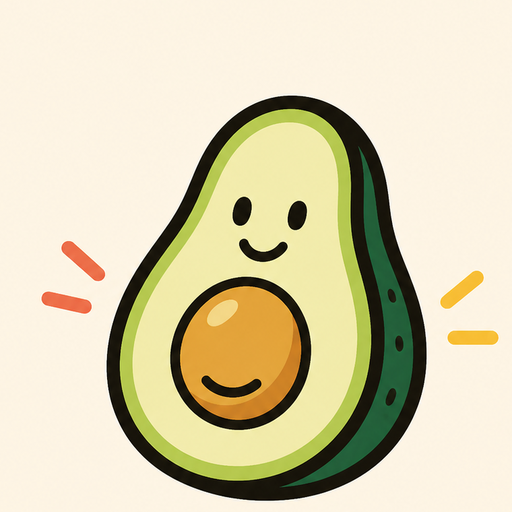
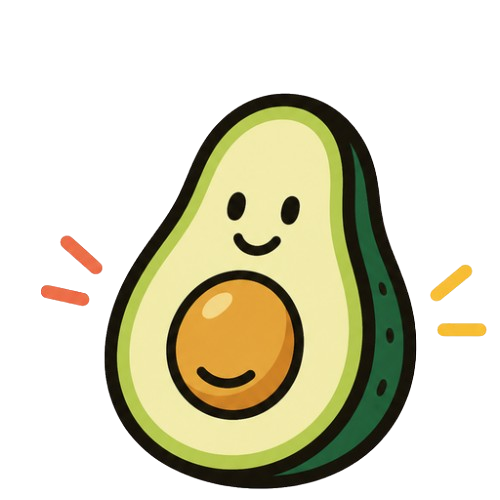
Use transparent avocado mark

diff --git a/src/App.tsx b/src/App.tsx
@@ -169,8 +169,8 @@ function BrandMark({ site }: { site: AppContent["site"]["site"] }) {
   const mark = site.brand.mark || site.brand.logo;
 
   return (
-    <span className="grid h-10 w-10 overflow-hidden rounded-full bg-cream-deep ring-1 ring-ink/10">
-      <img src={mark} alt="" className="h-full w-full object-cover" loading="eager" />
+    <span className="grid h-10 w-10 place-items-center">
+      <img src={mark} alt="" className="h-full w-full object-contain" loading="eager" />
     </span>
   );
 }
